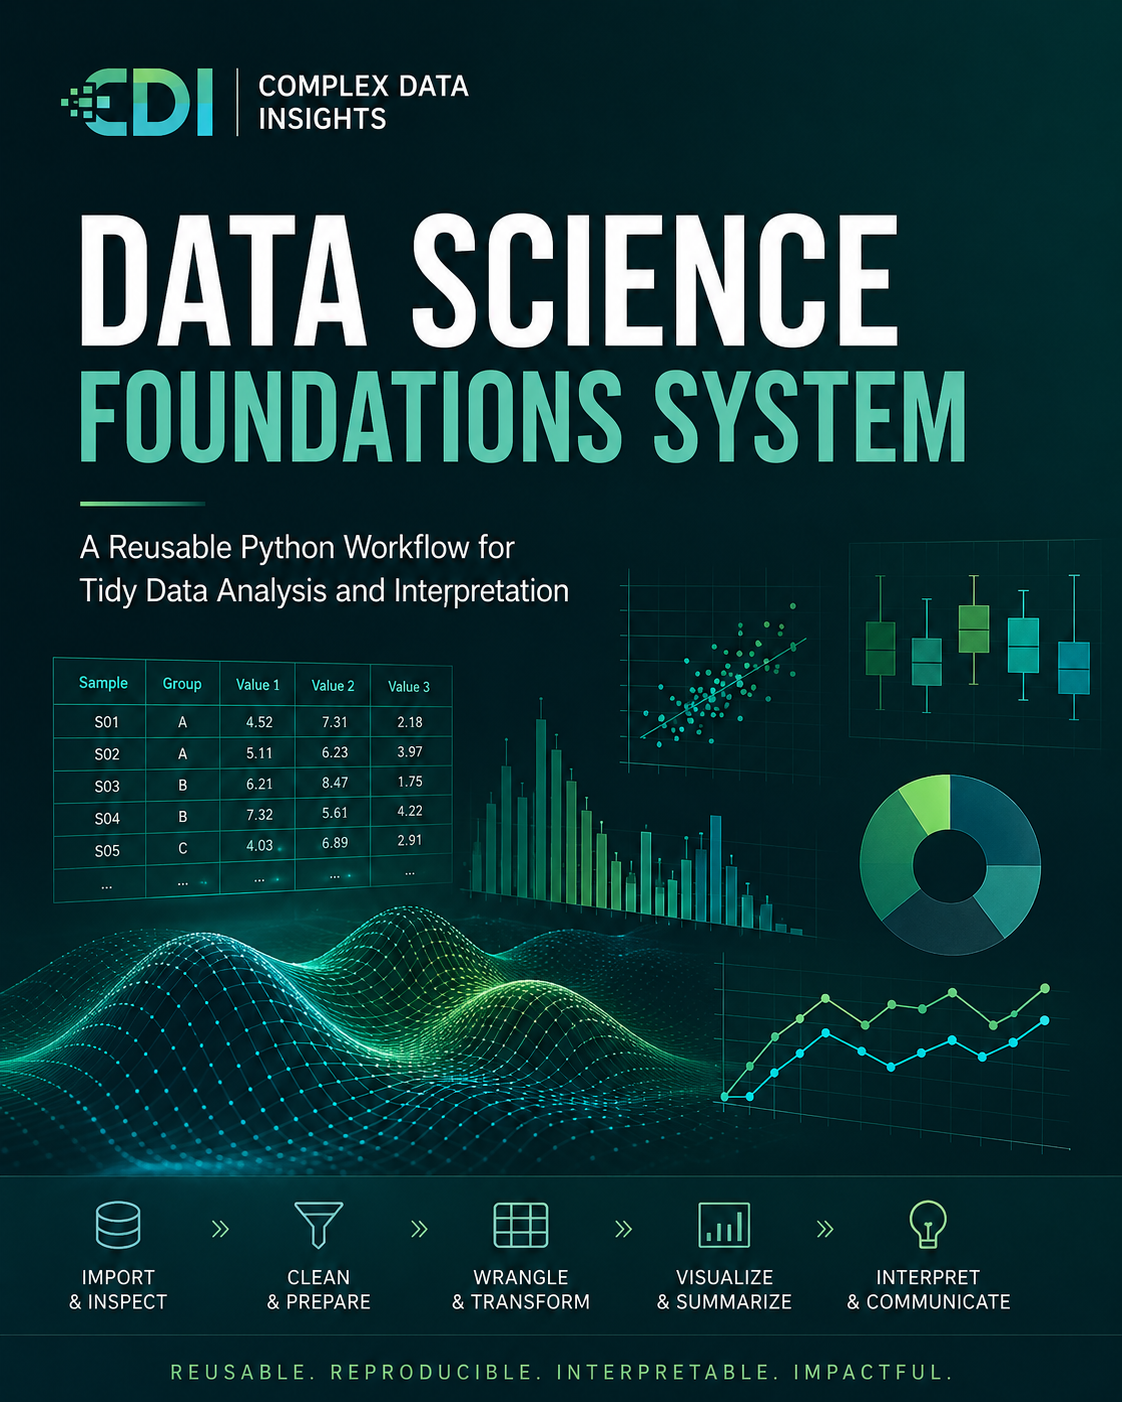
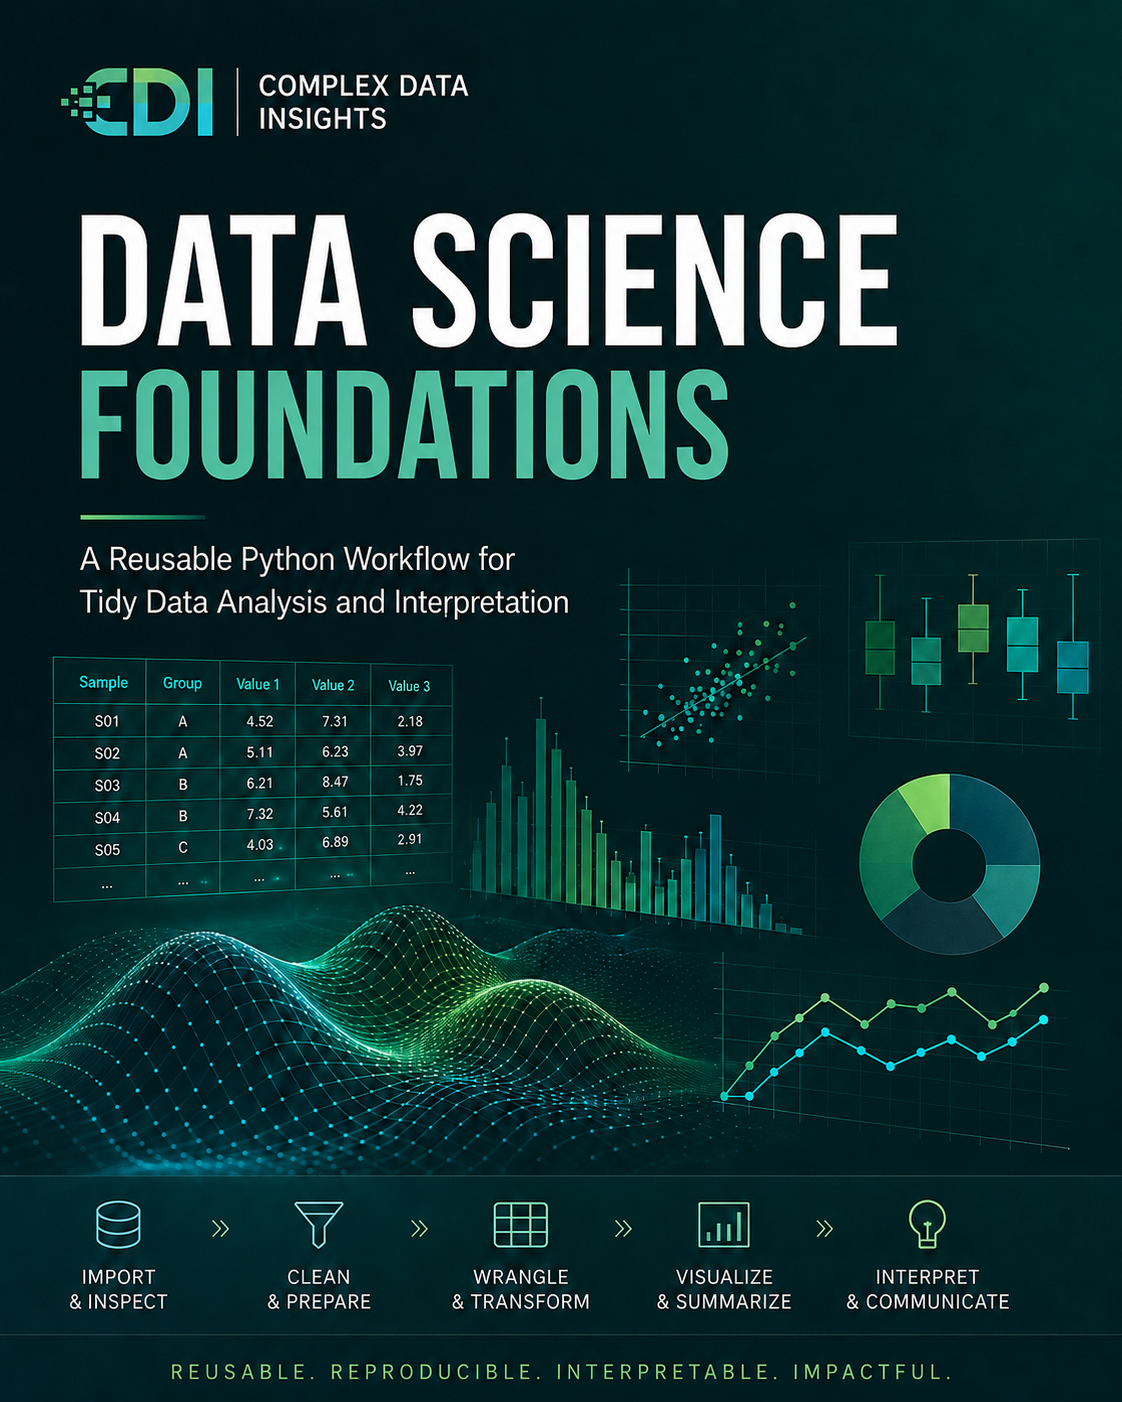
Regenerate the Data Science Foundation cover image

diff --git a/docs/06-summary-statistics-and-insights.html b/docs/06-summary-statistics-and-insights.html
@@ -809,9 +809,7 @@ Important
 <section id="run-the-reusable-summary-script" class="level2">
 <h2 class="anchored" data-anchor-id="run-the-reusable-summary-script">Run the reusable summary script</h2>
 <p>Run this from the project root:</p>
-<div class="sourceCode" id="cb20"><pre class="sourceCode bash code-with-copy"><code class="sourceCode bash"><span id="cb20-1"><a href="#cb20-1" aria-hidden="true" tabindex="-1"></a><span class="ex">python</span> scripts/python/summarize_table.py <span class="dt">\</span></span>
-<span id="cb20-2"><a href="#cb20-2" aria-hidden="true" tabindex="-1"></a>  data/iris_wrangled.csv <span class="dt">\</span></span>
-<span id="cb20-3"><a href="#cb20-3" aria-hidden="true" tabindex="-1"></a>  results/summary</span></code><button title="Copy to Clipboard" class="code-copy-button"><i class="bi"></i></button></pre></div>
+<div class="sourceCode" id="cb20"><pre class="sourceCode bash code-with-copy"><code class="sourceCode bash"><span id="cb20-1"><a href="#cb20-1" aria-hidden="true" tabindex="-1"></a><span class="ex">python</span> scripts/python/summarize_table.py data/iris_wrangled.csv results/summary</span></code><button title="Copy to Clipboard" class="code-copy-button"><i class="bi"></i></button></pre></div>
 <p>The script validates the input and creates the same evidence package developed manually in this lesson.</p>
 <hr>
 </section>
